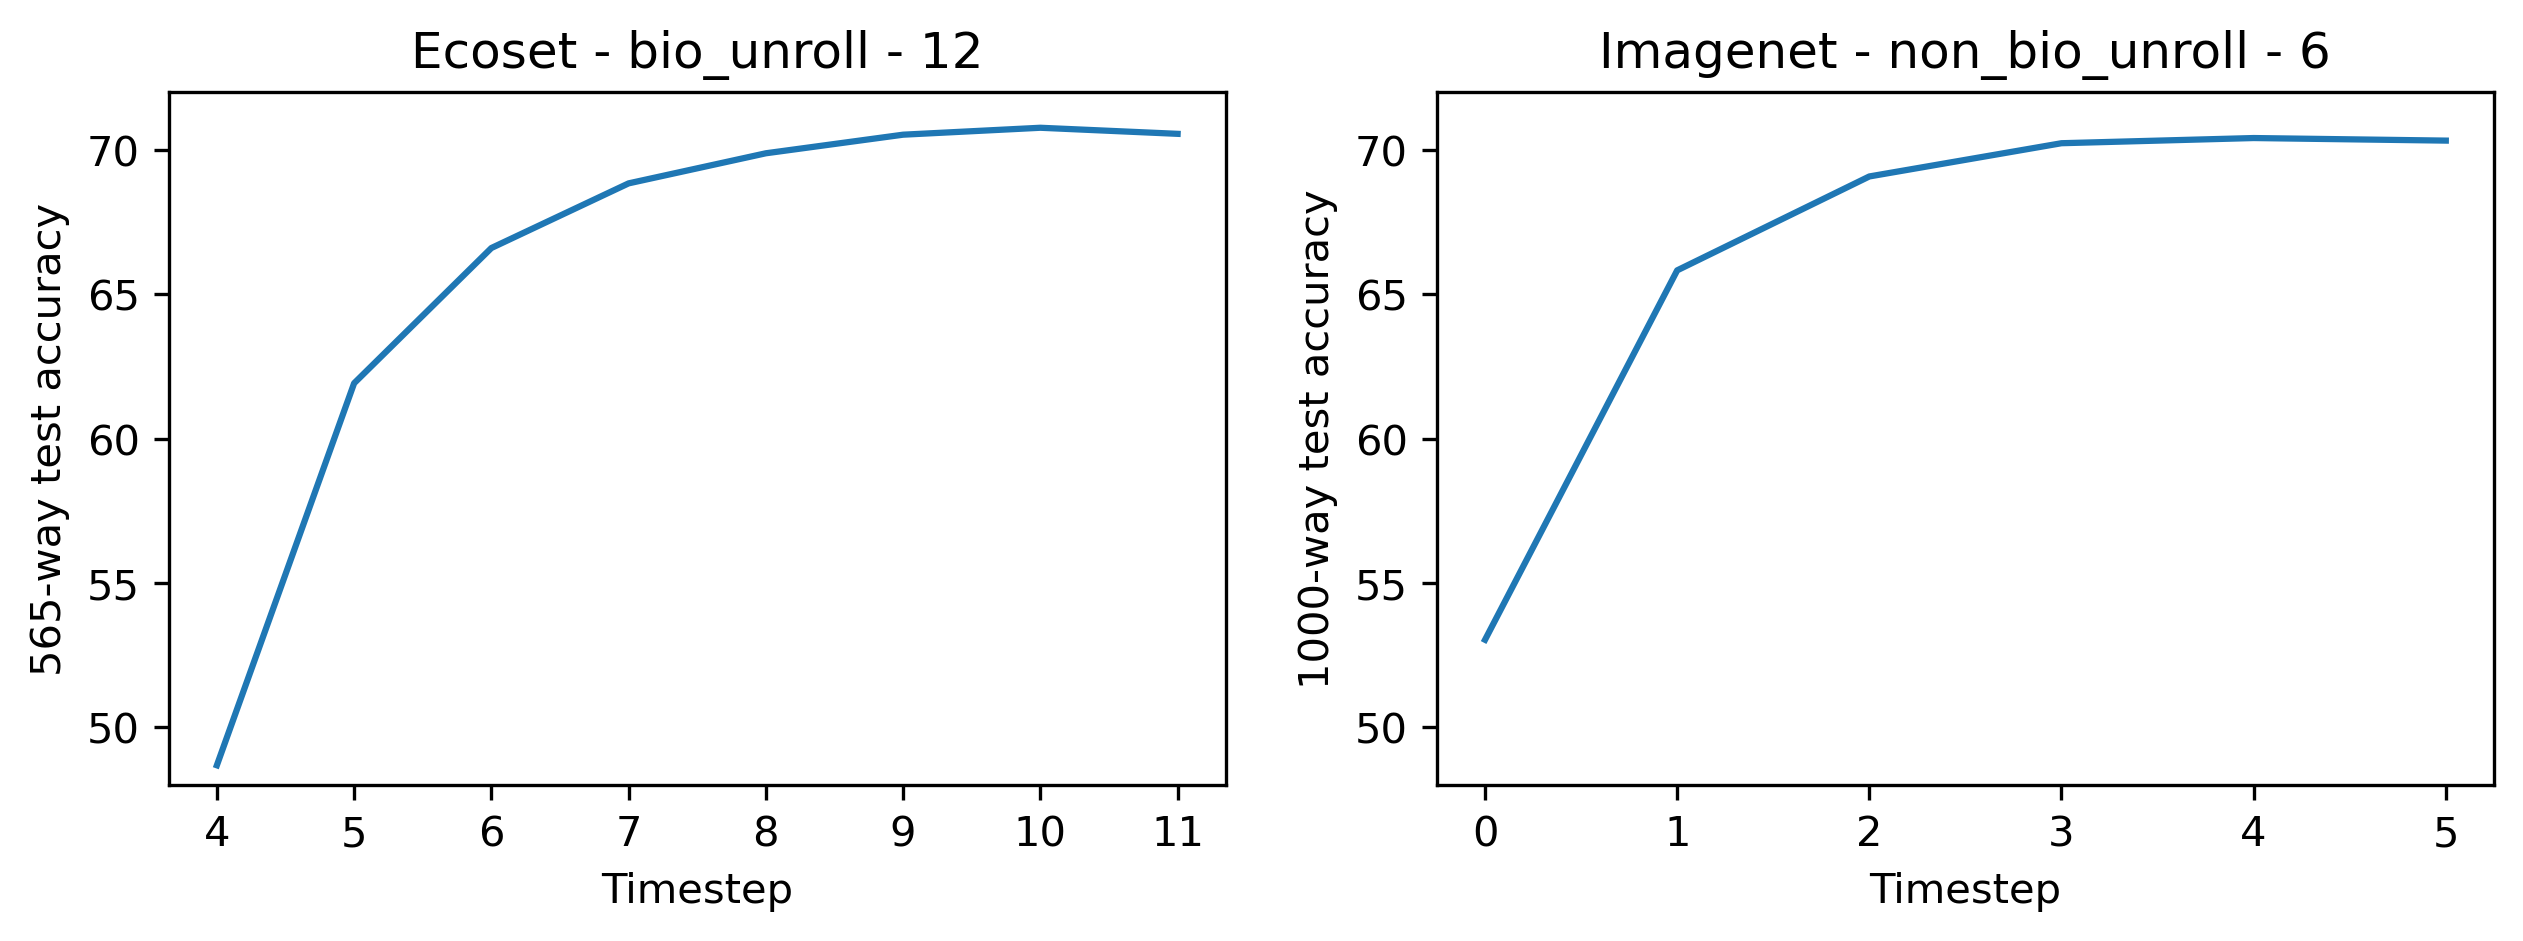
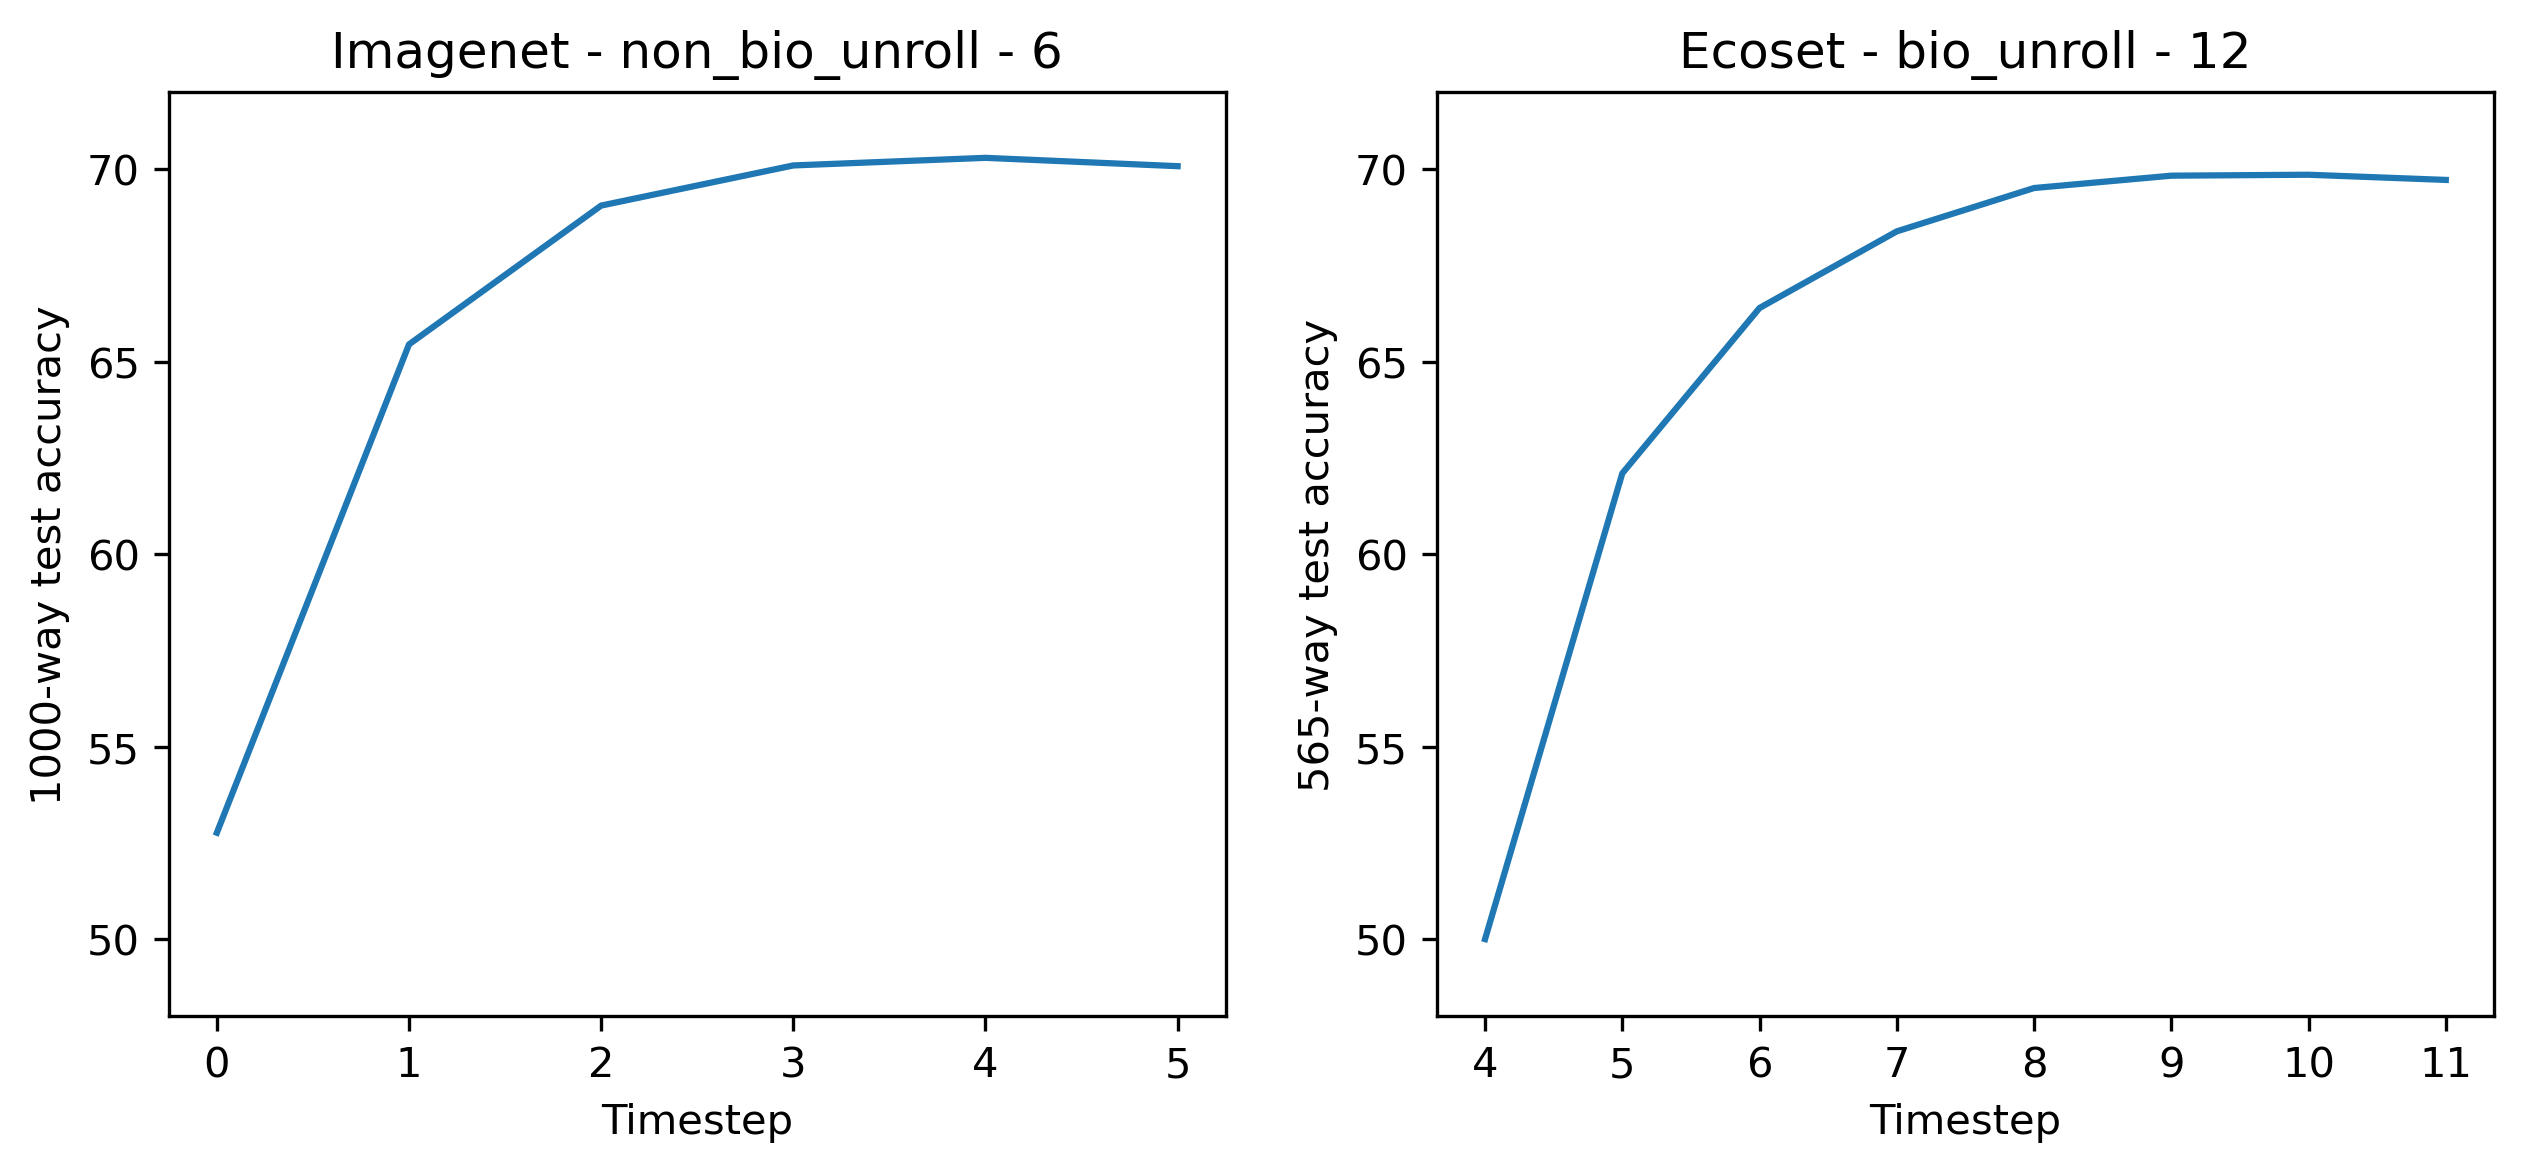
update

diff --git a/README.md b/README.md
@@ -18,7 +18,7 @@ These models are available through HuggingFace - https://huggingface.co/novelmar
 | Model Name       | Dataset   | Top-1 Accuracy (%) | FLOPs (Giga) | Parameters (M) |
 |------------------|-----------|--------------------|-------------------|----------------|
 | BLT_VS (ImageNet - non_bio_unroll) | ImageNet  | 70.2              | 158               | 34.9           |
-| BLT_VS (EcoSet - bio_unroll)   | Ecoset    | -              | 115               | 27.3           |
+| BLT_VS (EcoSet - bio_unroll)   | Ecoset    | 69.8              | 115               | 27.3           |
 | ResNet-50         | Ecoset  | 74.1              | 4               |  24.6          |
 | CORNet-S        | Ecoset  | 71.3              | 16               | 53.1           |
 
